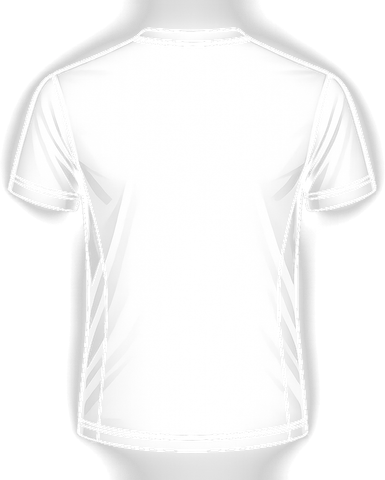
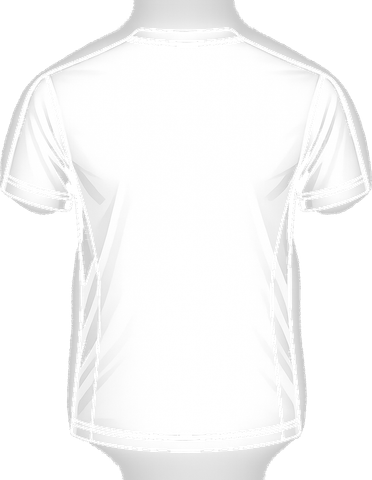
Home PC rediseño + subtitulo breve + fix modal rol + camiseta sin halo
- Home PC: el panel de CTA pasa de estar pegado a la derecha (tapaba la
  cara del jugador) a un panel a la IZQUIERDA centrado vertical, con
  scrim degradado para legibilidad. Botones full-width, textos alineados
  a la izquierda. Ya no quedan contra el borde.
- Subtitulo mas breve (2 lineas).
- Fix: los botones de rol tenian onclick=_roleEntry Y un wireBtn que
  llamaba _showLoginModal → abria el selector y enseguida el registro.
  Ahora ambos usan _roleEntry (un solo camino).
- Camiseta Leyenda: PNG regenerado con alpha DURO (sin borde fade) → se
  fue el halo/resplandor. Numero y apellido mas chicos y bien ubicados.
- Bumps: style ?v=b, carrera ?v=h, jersey png ?v=2, CACHE v442.

diff --git a/index.html b/index.html
@@ -134,7 +134,7 @@
         } catch(e) {}
     </script>
 
-    <link rel="stylesheet" href="style.css?v=20260803a">
+    <link rel="stylesheet" href="style.css?v=20260804b">
     <link href='https://unpkg.com/boxicons@2.1.4/css/boxicons.min.css' rel='stylesheet'>
     <script src="https://cdnjs.cloudflare.com/ajax/libs/gsap/3.12.2/gsap.min.js"></script>
     <script src="https://cdn.jsdelivr.net/npm/@supabase/supabase-js@2"></script>
@@ -231,7 +231,7 @@
                     <!-- Sub-frase social + contador de jugadores (estilo X/Instagram home). Va
                          SIEMPRE visible arriba de los CTAs, para no depender de scroll. -->
                     <div class="hero-tagline">
-                        <div class="hero-tagline-txt" style="white-space:nowrap;">La App del Fútbol Amateur<br><span style="white-space:normal;">Encontrá partidos y rivales, armá tu equipo, jugá torneos y ligas con fixture y tabla, reservá canchas, seguí tus stats, chateá y comprá en tiendas de fútbol. Todo tu fútbol, en un solo lugar.</span></div>
+                        <div class="hero-tagline-txt" style="white-space:nowrap;">La App del Fútbol Amateur<br><span style="white-space:normal;">Partidos, equipos, torneos y canchas. Con tus stats de verdad — todo en un solo lugar.</span></div>
                         <div class="hero-counter">
                             <i class='bx bx-user-check'></i>
                             <span id="home-user-count">—</span>
@@ -3956,7 +3956,7 @@
     <script src="canchero-impostor.js?v=20260714a" charset="utf-8"></script>
     <script src="canchero-higher-lower.js?v=20260717e" charset="utf-8"></script>
     <script src="canchero-trivia.js?v=20260802a" charset="utf-8"></script>
-    <script src="canchero-carrera.js?v=20260804g" charset="utf-8"></script>
+    <script src="canchero-carrera.js?v=20260804h" charset="utf-8"></script>
     <script src="canchero-video-trim.js?v=20260714a" charset="utf-8"></script>
     <script src="canchero-momentos.js?v=20260804a" charset="utf-8"></script>
     <script src="canchero-momentos-editor.js?v=20260717b" charset="utf-8"></script>
@@ -4048,17 +4048,13 @@
             if (el) { el.addEventListener('click', fn); el.style.cursor='pointer'; }
         }
 
-        wireBtn('hero-btn-jugador', function(e){
-            e.preventDefault();
-            // "ENTRAR" = SOLO abrir el login (sin navegar a vistas protegidas). El registro tiene su propio botón.
-            // Se pasa el rol para que la app abra con la identidad elegida acá.
-            if (typeof window._showLoginModal === 'function') window._showLoginModal('jugador');
-        });
-        // Hero rediseñado (v406): 4 accesos por rol. Fanático se retiró; Negocio genérico se abrió
-        // en 3 accesos directos (Canchas/Ligas/Tiendas), cada uno abre su ficha de login.
-        wireBtn('hero-btn-canchas', function(e){ e.preventDefault(); if (typeof window._showLoginModal === 'function') window._showLoginModal('club'); });
-        wireBtn('hero-btn-ligas',   function(e){ e.preventDefault(); if (typeof window._showLoginModal === 'function') window._showLoginModal('organizacion'); });
-        wireBtn('hero-btn-tiendas', function(e){ e.preventDefault(); if (typeof window._showLoginModal === 'function') window._showLoginModal('tienda'); });
+        // Cada rol abre el modal de ENTRADA (_roleEntry): registrarme/acceder o entrar sin
+        // registrarme. Antes esto disparaba _showLoginModal ADEMÁS del onclick del botón, así
+        // que se abría el selector y enseguida el registro (bug). Ahora un solo camino.
+        wireBtn('hero-btn-jugador', function(e){ e.preventDefault(); if (window._roleEntry) window._roleEntry('jugador'); });
+        wireBtn('hero-btn-canchas', function(e){ e.preventDefault(); if (window._roleEntry) window._roleEntry('club'); });
+        wireBtn('hero-btn-ligas',   function(e){ e.preventDefault(); if (window._roleEntry) window._roleEntry('organizacion'); });
+        wireBtn('hero-btn-tiendas', function(e){ e.preventDefault(); if (window._roleEntry) window._roleEntry('tienda'); });
 
         // Contador de USOS de Canchero (estilo red social — llama la atención por cantidad).
         // Cuenta rows de analytics_events (cada navegación/click clave suma 1). Fallback: usuarios.

diff --git a/canchero-carrera.js b/canchero-carrera.js
@@ -153,7 +153,7 @@ function clubBadge(name, size){
 // (rayas/sash) con la MISMA máscara y color secundario; 3) el PNG encima con
 // mix-blend-mode: multiply para preservar pliegues/costuras/sombras del template;
 // 4) apellido y número por SVG absoluto (textLength garantiza que entren SIEMPRE).
-const JERSEY_PNG = 'img/carrera/jersey-back.png?v=1';
+const JERSEY_PNG = 'img/carrera/jersey-back.png?v=2';
 function jersey(size, apellido, numero, pais){
   const k = KITS[pais] || {t:'solid',c:['#1b7a3e'],txt:'#ffffff'};
   const base = k.c[0]; const alt = k.c[1] || '#ffffff'; const txt = k.txt || '#111';
@@ -168,15 +168,15 @@ function jersey(size, apellido, numero, pais){
   }
   const apeUp = esc((apellido||'APELLIDO').toUpperCase()).slice(0,14);
   const num   = esc(String(numero||10)).slice(0,2);
-  const apeLen = Math.min(160, 12*apeUp.length);
-  const numLen = num.length>=2 ? 110 : 60;
+  const apeLen = Math.min(120, 10*apeUp.length);
+  const numLen = num.length>=2 ? 62 : 34;
   return `<div style="position:relative;width:${s}px;height:${s}px;display:inline-block;">
     <div style="position:absolute;inset:0;background:${base};${maskCSS}"></div>
     ${pattern}
     <img src="${JERSEY_PNG}" alt="" style="position:absolute;inset:0;width:100%;height:100%;object-fit:contain;mix-blend-mode:multiply;pointer-events:none;">
     <svg viewBox="0 0 240 240" width="${s}" height="${s}" style="position:absolute;inset:0;pointer-events:none;" xmlns="http://www.w3.org/2000/svg">
-      <text x="120" y="78" text-anchor="middle" font-family="Outfit,Arial" font-weight="800" font-size="18" fill="${txt}" textLength="${apeLen}" lengthAdjust="spacingAndGlyphs" style="letter-spacing:1.5px;paint-order:stroke;stroke:rgba(0,0,0,.35);stroke-width:.6;">${apeUp}</text>
-      <text x="120" y="140" text-anchor="middle" font-family="Outfit,Arial" font-weight="900" font-size="64" fill="${txt}" textLength="${numLen}" lengthAdjust="spacingAndGlyphs" style="paint-order:stroke;stroke:rgba(0,0,0,.35);stroke-width:1;">${num}</text>
+      <text x="120" y="96" text-anchor="middle" font-family="Outfit,Arial" font-weight="800" font-size="14" fill="${txt}" textLength="${apeLen}" lengthAdjust="spacingAndGlyphs" style="letter-spacing:1px;paint-order:stroke;stroke:rgba(0,0,0,.28);stroke-width:.5;">${apeUp}</text>
+      <text x="120" y="152" text-anchor="middle" font-family="Outfit,Arial" font-weight="900" font-size="46" fill="${txt}" textLength="${numLen}" lengthAdjust="spacingAndGlyphs" style="paint-order:stroke;stroke:rgba(0,0,0,.28);stroke-width:.8;">${num}</text>
     </svg>
   </div>`;
 }

diff --git a/style.css b/style.css
@@ -428,18 +428,45 @@ ul { list-style: none; }
         align-items: unset !important;
         padding: 0 !important;
     }
+    /* PC: panel a la IZQUIERDA, centrado vertical — deja ver la cara del jugador
+       (antes iba pegado a la derecha y los textos tapaban la cara). */
     .hero-cta-wrap {
-        right: 6%;
-        bottom: 24%;
+        left: 7%;
+        right: auto;
+        bottom: auto;
+        top: 50%;
+        transform: translateY(-50%);
+        max-width: 440px;
+        width: min(440px, 44vw);
     }
+    /* Scrim para que el texto se lea sobre la foto sin taparla del todo */
+    .home-viewport-wrap .landing-hero-full::before {
+        content: '';
+        position: absolute; inset: 0;
+        background: linear-gradient(90deg, rgba(7,9,7,0.92) 0%, rgba(7,9,7,0.7) 34%, rgba(7,9,7,0.15) 62%, transparent 82%);
+        z-index: 0; pointer-events: none;
+    }
+    .home-viewport-wrap .hero-cta-wrap { z-index: 2; }
+    .hero-tagline {
+        text-align: left !important;
+        padding-top: 0 !important;
+        margin-bottom: 22px !important;
+        max-width: 440px !important;
+    }
+    .hero-tagline-txt { font-size: 30px !important; line-height: 1.12 !important; white-space: normal !important; }
+    .hero-tagline-txt span { font-size: 15px !important; }
+    .hero-counter { justify-content: flex-start !important; }
     .home-viewport-wrap .fs-side-actions {
         display: flex !important;
         flex-direction: column !important;
-        gap: 12px !important;
-        max-width: 320px !important;
+        gap: 11px !important;
+        max-width: 380px !important;
+        align-items: stretch !important;
+        margin: 0 !important;
     }
     .home-viewport-wrap .btn-fs-action {
-        width: 300px !important;
+        width: 100% !important;
+        max-width: 380px !important;
     }
 }
 

diff --git a/_dev/prep-jersey.js b/_dev/prep-jersey.js
@@ -16,15 +16,13 @@ const OUT = path.join(__dirname, '..', 'img', 'carrera', 'jersey-back.png');
   for (let i = 0; i < data.length; i += channels) {
     const r = data[i], g = data[i+1], b = data[i+2];
     const lum = 0.299*r + 0.587*g + 0.114*b;
-    let a;
-    if (lum < 180) a = 0;                                    // viñeta gris → fuera
-    else if (lum < 210) a = Math.round(((lum - 180) / 30) * 255);
-    else a = 255;
+    // Alpha DURO (binario): 0 o 255, sin banda de fade. Los bordes semi-transparentes
+    // eran los que, al tintarse con la máscara, generaban un halo/resplandor feo alrededor
+    // de la camiseta. Con corte duro no hay pixeles a medias → sin halo.
+    const a = lum < 200 ? 0 : 255;
     data[i+3] = a;
-    // Conservar grises para que multiply preserve pliegues/costuras; subir brillo para que
-    // el tinte quede vivo (los grises muy oscuros los llevamos a ~200).
-    if (a > 30) {
-      const v = Math.max(200, lum); // suelo 200 → shadow leve, sin ensuciar el color
+    if (a) {
+      const v = Math.max(205, lum); // grises claros para conservar pliegues bajo multiply
       data[i] = v; data[i+1] = v; data[i+2] = v;
     }
   }

diff --git a/sw.js b/sw.js
@@ -1,4 +1,4 @@
-const CACHE_NAME = 'canchero-v441';
+const CACHE_NAME = 'canchero-v442';
 const RUNTIME_CACHE = 'canchero-runtime'; // persistente entre deploys (media/JS/CSS cacheados)
 const assets = [
   './',
